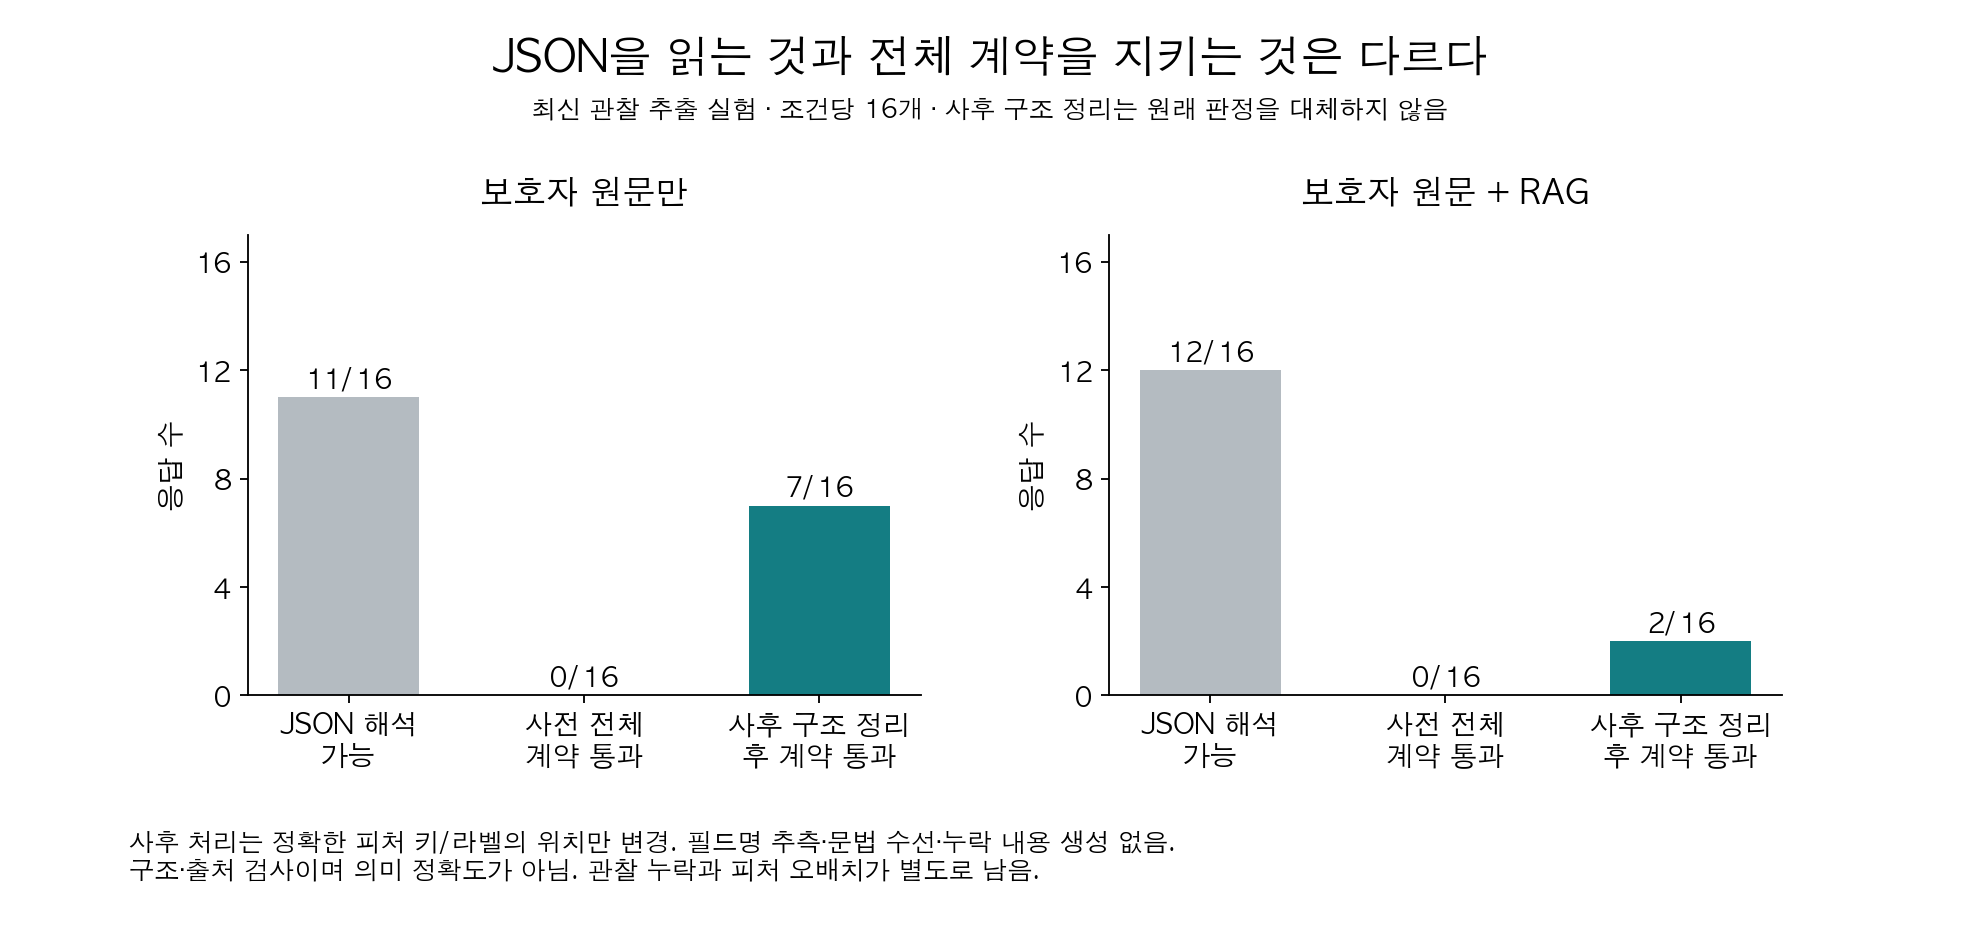
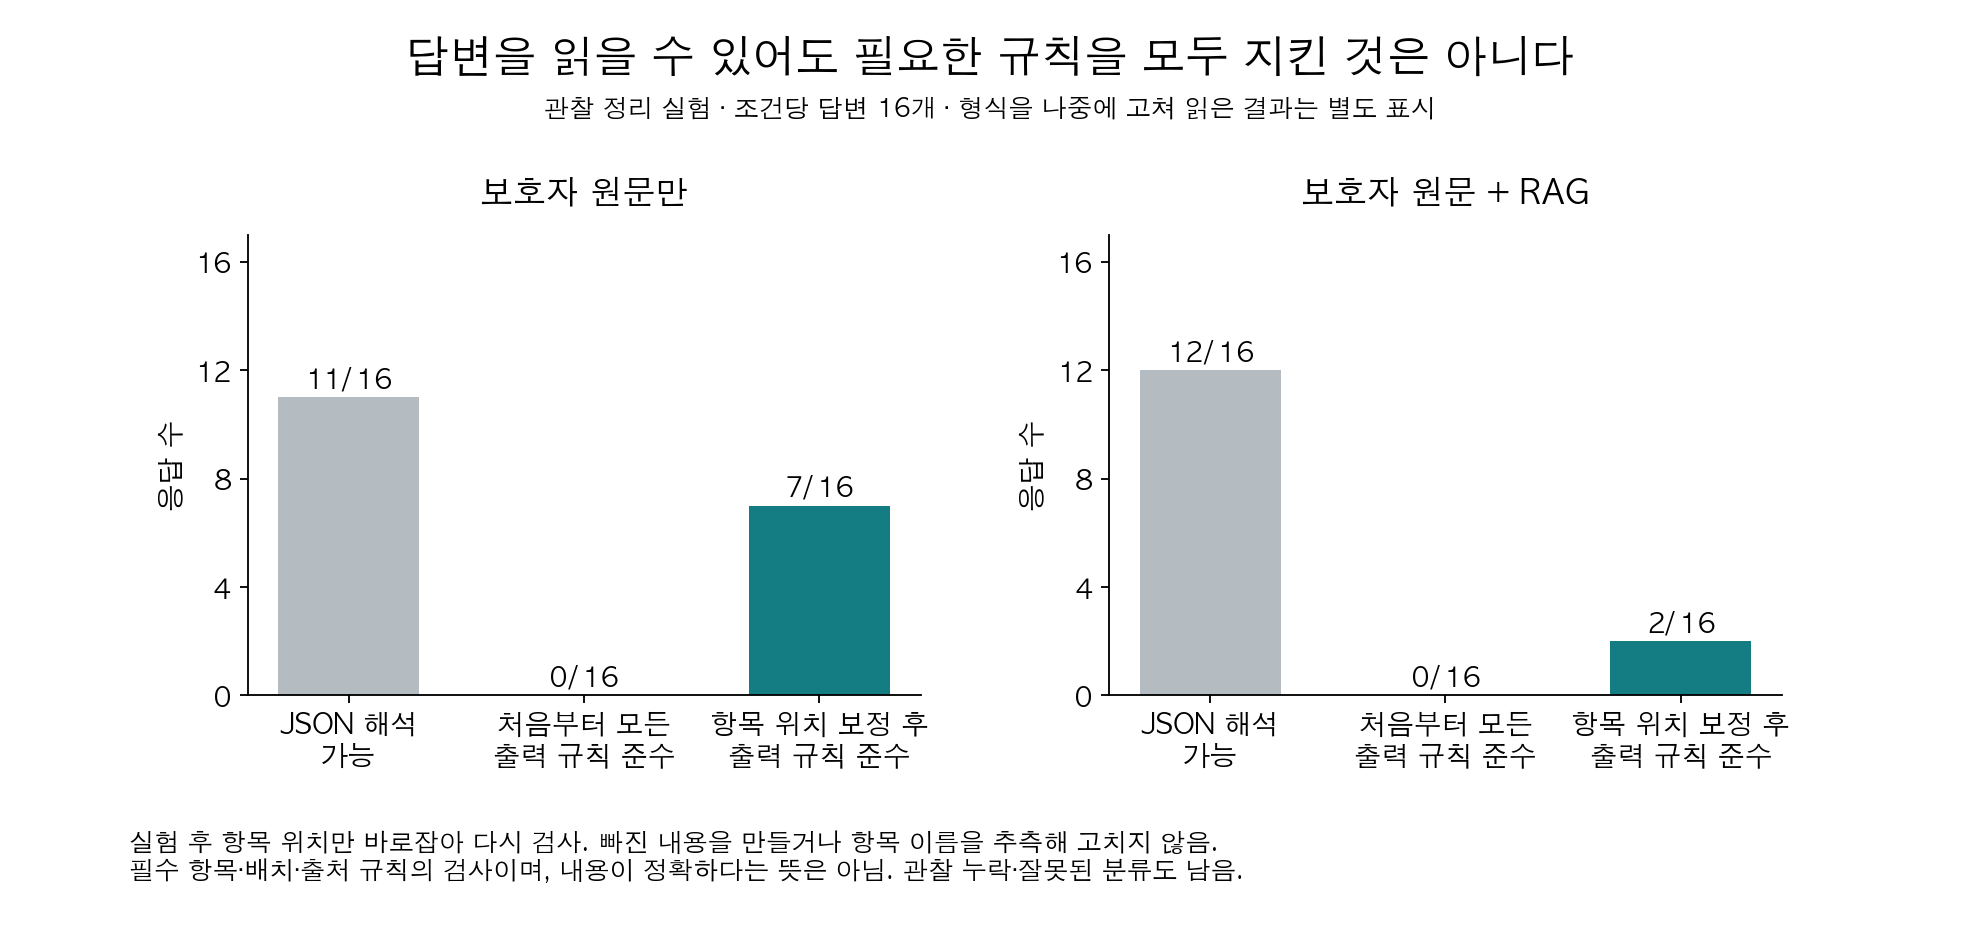
docs(experiments): explain findings for first-time and planning readers

diff --git a/backend/experiments/kexaone_review_20260924/render_figures.py b/backend/experiments/kexaone_review_20260924/render_figures.py
@@ -68,8 +68,8 @@ def paths():
 def contracts():
     raw=read('evidence/09_observation/saved_outputs.json'); post=read('evidence/09_observation/shape_diagnostic.json')
     fig,axes=plt.subplots(1,2,figsize=(12,5.7));fig.subplots_adjust(top=.75,bottom=.26,wspace=.28)
-    fig.suptitle('JSON을 읽는 것과 전체 계약을 지키는 것은 다르다',fontsize=19,weight='bold',y=.96)
-    fig.text(.5,.875,'최신 관찰 추출 실험 · 조건당 16개 · 사후 구조 정리는 원래 판정을 대체하지 않음',ha='center',fontsize=11)
+    fig.suptitle('답변을 읽을 수 있어도 필요한 규칙을 모두 지킨 것은 아니다',fontsize=19,weight='bold',y=.96)
+    fig.text(.5,.875,'관찰 정리 실험 · 조건당 답변 16개 · 형식을 나중에 고쳐 읽은 결과는 별도 표시',ha='center',fontsize=11)
     for ax,arm,label in zip(axes,['NO_RAG','WITH_RAG'],['보호자 원문만','보호자 원문 + RAG']):
         items=[o for o in raw if o['arm']==arm];dec=0
         for o in items:
@@ -78,9 +78,9 @@ def contracts():
         vals=[dec,sum(o['checks']['valid'] for o in items),sum(post[o['id']]['valid'] for o in items)]
         ax.bar(range(3),vals,color=[GRAY,INK,TEAL],width=.6)
         for i,n in enumerate(vals):ax.text(i,n+.35,f'{n}/16',ha='center',weight='bold')
-        ax.set_xticks(range(3),['JSON 해석\n가능','사전 전체\n계약 통과','사후 구조 정리\n후 계약 통과'])
+        ax.set_xticks(range(3),['JSON 해석\n가능','처음부터 모든\n출력 규칙 준수','항목 위치 보정 후\n출력 규칙 준수'])
         ax.set_ylim(0,17);ax.set_yticks([0,4,8,12,16]);ax.set_title(label,pad=14);ax.set_ylabel('응답 수')
-    fig.text(.065,.065,'사후 처리는 정확한 피처 키/라벨의 위치만 변경. 필드명 추측·문법 수선·누락 내용 생성 없음.\n구조·출처 검사이며 의미 정확도가 아님. 관찰 누락과 피처 오배치가 별도로 남음.',fontsize=11)
+    fig.text(.065,.065,'실험 후 항목 위치만 바로잡아 다시 검사. 빠진 내용을 만들거나 항목 이름을 추측해 고치지 않음.\n필수 항목·배치·출처 규칙의 검사이며, 내용이 정확하다는 뜻은 아님. 관찰 누락·잘못된 분류도 남음.',fontsize=11)
     save(fig,'output-contract.png')
 
 def quotations():

diff --git a/backend/experiments/kexaone_review_20260924/README.md b/backend/experiments/kexaone_review_20260924/README.md
@@ -8,7 +8,7 @@
 
 돌아오길은 보호자가 알려준 이력과 치매 실종 관련 지식을 바탕으로 초기 이동 성향을 만들고, 가상 보행자의 이동을 집계한다. 우리가 알고 싶은 것은 K가 설명을 더 자연스럽게 쓰는지가 아니라 **‘이 사람은 어디로 향하고, 머무는지 계속 걷는지, 어떻게 방향을 고르고, 거리 정보를 어떻게 해석하는가’를 기존 SAR보다 충실하게 표현하는지**다.
 
-SAR는 도메인 학습을 거친 기존 모델이고, RAG는 기존 Upstage 인덱스에서 검색한 논문·QA 발췌다. 이 지식을 유지하면서 K의 개인 해석을 활용할 수 있는지 검토했다. SAR도 개인 정보와 RAG를 받으므로 ‘순수 통계 vs 개인화’ 실험이 아니다. 마음 재해석은 껐고, 초기 성향과 보행 연결에 집중했다.
+SAR는 도메인 학습을 거친 기존 모델이고, RAG는 기존 Upstage 인덱스에서 검색한 논문·QA 발췌다. 이 지식을 유지하면서 K의 개인 해석을 활용할 수 있는지 검토했다. K는 K-EXAONE의 줄임말이다. `SAR→K`는 SAR의 해석을 K가 참고하는 순서이고, `K→SAR`는 K가 정리한 내용을 SAR가 참고하는 순서다. SAR도 개인 정보와 RAG를 받으므로 ‘순수 통계 vs 개인화’ 실험이 아니다. 이동 중 모델에게 다시 판단을 요청하는 ‘마음 재해석’은 끄고, 처음 정한 성향이 가상 이동에 어떻게 반영되는지 살폈다.
 
 처음에는 모델 직접 비교를 하고, 도로 환경과 시간 조건을 확인했다. 이후 K→SAR, 프롬프트·RAG 조건, SAR→K, 피처별 해석, 사례별 SAR 참조, 관찰 추출을 차례로 시험했다. **서로 다른 프롬프트·사례·검사 기준의 통과율을 모델 성능 추세로 비교하지 않는다.**
 
@@ -21,12 +21,15 @@ SAR는 도메인 학습을 거친 기존 모델이고, RAG는 기존 Upstage 인
 
 ## 핵심 결과
 
-| 질문 | 확인한 결과 | 판단 범위 |
-|---|---|---|
-| 개인 관찰이 보행에 전달되는가 | SAR→K의 머무름/지속 이동 대조에서 출발지 200m 이내 종료 차이 10.00%p; 같은 반복 SAR 0.40%p, K 6.13%p | 합성 대조 하나의 입력 반응. 큰 차이가 정답이거나 정확도 향상이라는 뜻은 아님 |
-| SAR 참조가 K 해석을 돕는가 | 후속 사례별 실험에서 방향 미관찰 12출력 중 근거 없는 직진 단정 A 1개 / SAR 추가 B 5개 | 사후 특정 오류 진단. SAR의 학습 지식 전체에 대한 평가 아님 |
-| 형식만 고치면 해결되는가 | 최신 실험 사전 전체 계약 0/16·0/16; 최상위 구조만 사후 정리하면 7/16·2/16 | 의미 정확도 아님. 관찰 누락·피처 오배치·출처 오류는 별도로 남음 |
-| 실제 수색 정확도가 좋아졌는가 | 실제 실종 경로 데이터 미확보 | 검증하지 못함 |
+| 질문 | 처음 읽는 팀원을 위한 결론 |
+|---|---|
+| K를 추가하면 개인 특징이 더 잘 반영되는가 | ‘근처에 머무는 사람’과 ‘계속 걷는 사람’을 다르게 움직이게 한 사례는 있다. 하지만 어떤 차이가 실제 행동에 더 맞는지는 아직 확인하지 못했다. |
+| SAR를 참고하면 K의 해석이 더 믿을 만해지는가 | 항상 그렇지는 않았다. SAR가 입력에 없던 ‘직진’ 행동을 추가하자 K가 그 설명을 따라간 사례가 있었다. |
+| 답변 형식만 정리하면 사용할 수 있는가 | 아니다. 프로그램이 읽을 수 있어도 중요한 관찰이 빠지거나 엉뚱한 행동 항목에 들어갈 수 있었다. |
+| 시간이 지나면 예상 위치가 계속 달라지는가 | 이번 고정 조건에서는 4시간과 6시간의 경로·위치 확률이 같았다. 사람의 실제 정지를 뜻하지 않으며, 시간에 따라 예상 위치를 갱신하는 방식은 별도 검토가 필요하다. |
+| 실제 수색 정확도가 좋아졌는가 | 실제 실종 경로 데이터가 없어 아직 검증하지 못했다. |
+
+숫자와 비교 조건은 [실험 상세](EXPERIMENTS.md)에 있다. 특히 ‘보호자가 본 행동을 모델이 보지 못한 정보로 분류한 오류’와 ‘4시간·6시간 계산 결과가 같아진 이유’를 입력 예시부터 풀어 설명했다.
 
 ![같은 반복·시드로 맞춘 보행 비교](assets/matched-walking.png)
 
@@ -36,7 +39,7 @@ SAR는 도메인 학습을 거친 기존 모델이고, RAG는 기존 Upstage 인
 
 ## 증거와 재현
 
-- 8개 생성 실험의 **모델 응답 원문 324개**와 합성 입력(최근 3개 실험), 시스템 프롬프트, 집계·검토 기록을 포함한다. OSM 전환은 저장 출력을 재사용한 별도 1단계다.
+- 8개 생성 실험에서 받은 **모델 답변 원문 324개**(시간 비교의 324쌍과는 별개)와 합성 입력(최근 3개 실험), 시스템 프롬프트, 집계·검토 기록을 포함한다. OSM 전환은 저장 출력을 재사용한 별도 1단계다.
 - `saved_outputs.json`의 `raw_content`는 원문 그대로이며 문법 오류도 보존한다. 원본 파일 해시와 원문 해시를 함께 저장한다.
 - 요청 전체, RAG 문헌 전문, 키·인증·호스트 정보, 전체 도로망·전체 워커 경로는 원본 아카이브에 보존한다. 이 패키지는 오프라인 검토·그림 재생성용이며 모델 실험 전체의 독립 재실행 패키지는 아니다.
 - [source_provenance.json](source_provenance.json)은 원본 보고서 해시와 변환 범위를 기록한다. 사람이 직접 판정한 독립 맹검 결과는 아직 없다.

diff --git a/backend/experiments/kexaone_review_20260924/EXAMPLES.md b/backend/experiments/kexaone_review_20260924/EXAMPLES.md
@@ -335,7 +335,7 @@ H02는 방향 전환 미관찰, 보호자 동행 시 80m 뒤 휴식 후 재개, 
 
 > 보호자와 산책 시 약 80m 걷고 잠시 쉰 후 다시 걷는 모습을 관찰했고, 혼자 있을 때의 보행 거리나 휴식 여부는 미확인이다.
 
-거리 맥락을 잘 남겼지만 같은 응답의 경로 필드명이 훼손되어 전체 계약은 실패했다. 이 한 문장을 전체 출력 성공으로 세지 않았다.
+거리 설명은 원문의 상황을 잘 보존했지만, 같은 답변에서 경로 관련 항목 이름이 잘못 출력되어 프로그램에 그대로 전달할 수 없었다. 이 한 문장을 전체 출력 성공으로 세지 않았다.
 
 <details>
 <summary>이 응답의 전체 모델 출력 원문</summary>
@@ -381,7 +381,7 @@ H02는 방향 전환 미관찰, 보호자 동행 시 80m 뒤 휴식 후 재개, 
 
 ![저장 OSM 경로](assets/osm-paths.png)
 
-그림은 SAR→K 결합 실험의 F05 A/B, K 단독/결합 네 실행이다. 공통으로 비교 가능한 두 번째 모델 생성과 시드 41을 고정하고 **저장 순서 첫 40명**을 표시했다. 결과를 보고 경로를 골라내지 않았다. 비율은 각 실행의 **전체 500명** 기준이다. 보행은 1시간 조건이며 마음 재해석 OFF다. 배경은 표시 경로가 사용한 도로 간선의 합집합이고, 실존 도로 위 가상 사건이다. [OpenStreetMap 출처·라이선스](https://www.openstreetmap.org/copyright).
+그림은 SAR→K 결합 실험의 F05 A/B, K 단독/결합 네 실행이다. 같은 질문에 두 번 받은 답변 중 두 번째 것을 사용하고, 무작위 이동의 시작 조건인 시드(seed)를 41로 고정한 뒤 **저장 순서 첫 40명**을 표시했다. 결과를 보고 경로를 골라내지 않았다. 비율은 각 실행의 **전체 500명** 기준이다. 보행은 1시간 조건이며 마음 재해석 OFF다. 배경은 표시 경로가 사용한 도로 간선의 합집합이고, 실존 도로 위 가상 사건이다. [OpenStreetMap 출처·라이선스](https://www.openstreetmap.org/copyright).
 
 원문 오류를 표시한 진단 보행이므로 경로 모양이 자연스럽다는 이유로 채택할 수 없다. 40개 그림은 분포 추정용 표본 전체도 아니다. 최신 사례별/관찰 추출 실험에는 보행 결과가 없어 이 그림을 최신 출력의 경로로 해석하면 안 된다.
 
@@ -393,4 +393,4 @@ H02는 방향 전환 미관찰, 보호자 동행 시 80m 뒤 휴식 후 재개, 
 
 ![최신 구조 진단](assets/output-contract.png)
 
-사전 전체 검사에서는 두 조건 모두 0/16. 최상위 구조만 의미 변경 없이 사후 정리하면 7/16·2/16이 통과했다. 이 값은 구조·출처 규칙의 통과 수이며 의미 정확도나 기존 실험 대비 개선률이 아니다. 원문 문법/필드명 오류는 추측 복구하지 않았다.
+원문만 준 조건과 RAG를 함께 준 조건에서 각각 답변 16개를 받았지만, 필수 항목·배치·출처 규칙을 처음부터 모두 지킨 답변은 두 조건 모두 없었다. 이후 내용은 바꾸지 않고 항목 위치만 정리해 다시 검사하자 원문만 조건 7개, RAG 조건 2개가 통과했다. 이는 형식을 바로잡아 읽을 수 있는지 확인한 결과이며, 해석 내용이 맞다거나 이전 실험보다 개선됐다는 뜻은 아니다. 잘못된 항목 이름이나 빠진 내용은 추측해서 채우지 않았다.

diff --git a/backend/experiments/kexaone_review_20260924/DECISION.md b/backend/experiments/kexaone_review_20260924/DECISION.md
@@ -12,14 +12,14 @@ SAR의 도메인 지식과 K의 개인 해석을 함께 활용할 수 있는지 
 
 목적지·머무름·방향·거리의 네 항목에 대해 개인 관찰, 도메인 기반 가설, 미확인·충돌을 구분한다. SAR 제안을 유지하거나 수정할 때 근거와 변경 이유를 남긴다. ‘계속 걷기’를 ‘직진 관찰’로 바꾼 SAR 설명은 바로잡되, 개인 정보가 없다는 이유만으로 도메인 기본값 전체를 없애지는 않는다. 기본값과 관찰된 개인 특성을 표시상 구분한다.
 
-네 피처에 대한 수정 권한을 주는 방향이 제안됐다. 구체적인 출력 골격, 등급·숫자 연결 규칙, 수정 허용 범위 및 판정 임계값은 후속 명세에서 확정해야 한다. 임의 반경·새 계수를 지금 확정하지 않는다.
+목적지·머무름·방향·거리의 네 항목(피처)에 대한 수정 권한을 주는 방향이 제안됐다. 구체적인 출력 골격, 등급·숫자 연결 규칙, 수정 허용 범위 및 통과·보류를 나누는 기준은 후속 명세에서 확정해야 한다. 임의 반경·새 계수를 지금 확정하지 않는다.
 
 ## 비교 순서
 
-1. **형식 안정성:** 실제 JSON 골격과 현재 제공 환경을 소규모로 확인. 토큰 상한 증량이 해결책이라고 가정하지 않음.
+1. **형식 안정성:** 프로그램이 읽을 답변 양식(JSON)을 예시로 제시하고, 필수 항목을 빠짐없이 같은 이름으로 반환하는지 소규모로 확인. 토큰 상한 증량이 해결책이라고 가정하지 않음.
 2. **해석 비교:** 동일 원문·SAR·RAG에서 기존 SAR 최종 출력과 K 최종 검토를 더한 출력을 비교. 관찰 누락/추가·부정/시점·피처 배치·충돌 보존·근거 없는 수정·SAR 오류 수정 여부를 사전에 정의.
-3. **보행 비교:** 해석 조건을 통과하면 동일 OSM 도로·시드·제약·마음 OFF로 비교. 정보 하나를 바꿨을 때 관련 축에 반응하고 무관한 축은 불필요하게 바뀌지 않는지 확인.
-4. **일반화와 사람 검토:** 프롬프트 개발에 쓰지 않은 사례를 잠그고, 두 명 이상의 독립 검토 및 불일치 조정 절차를 준비. 실제 경로가 없으면 사실 충실성과 시뮬레이션 일관성 범위로 결론 제한.
+3. **보행 비교:** 해석 조건을 통과하면 동일 OSM 도로·시드·제약·마음 OFF로 비교. 예를 들어 ‘계속 걷기’를 ‘근처에 머무름’으로만 바꿨을 때 머무름 행동은 달라지고, 알려주지 않은 목적지 선호까지 임의로 바뀌지는 않는지 확인.
+4. **일반화와 사람 검토:** 프롬프트를 고칠 때 보지 않았던 새 사례를 평가용으로 따로 보관하고, 두 명 이상이 서로의 판단을 보지 않고 검토한 뒤 의견 차이를 조정하는 절차를 준비. 실제 경로가 없으면 사실 충실성과 시뮬레이션 일관성 범위로 결론 제한.
 
 K가 기존 오류를 줄이고 개인 정보를 보행에 더 충실하게 반영하면서 새 오류·지연·비용을 감당할 수 있을 때 도입을 검토한다. 설명만 좋아지거나 SAR 오류를 복제하면 보류한다. SAR를 버린다는 결정도, K가 쓸모없다는 결론도 내리지 않았다.
 
